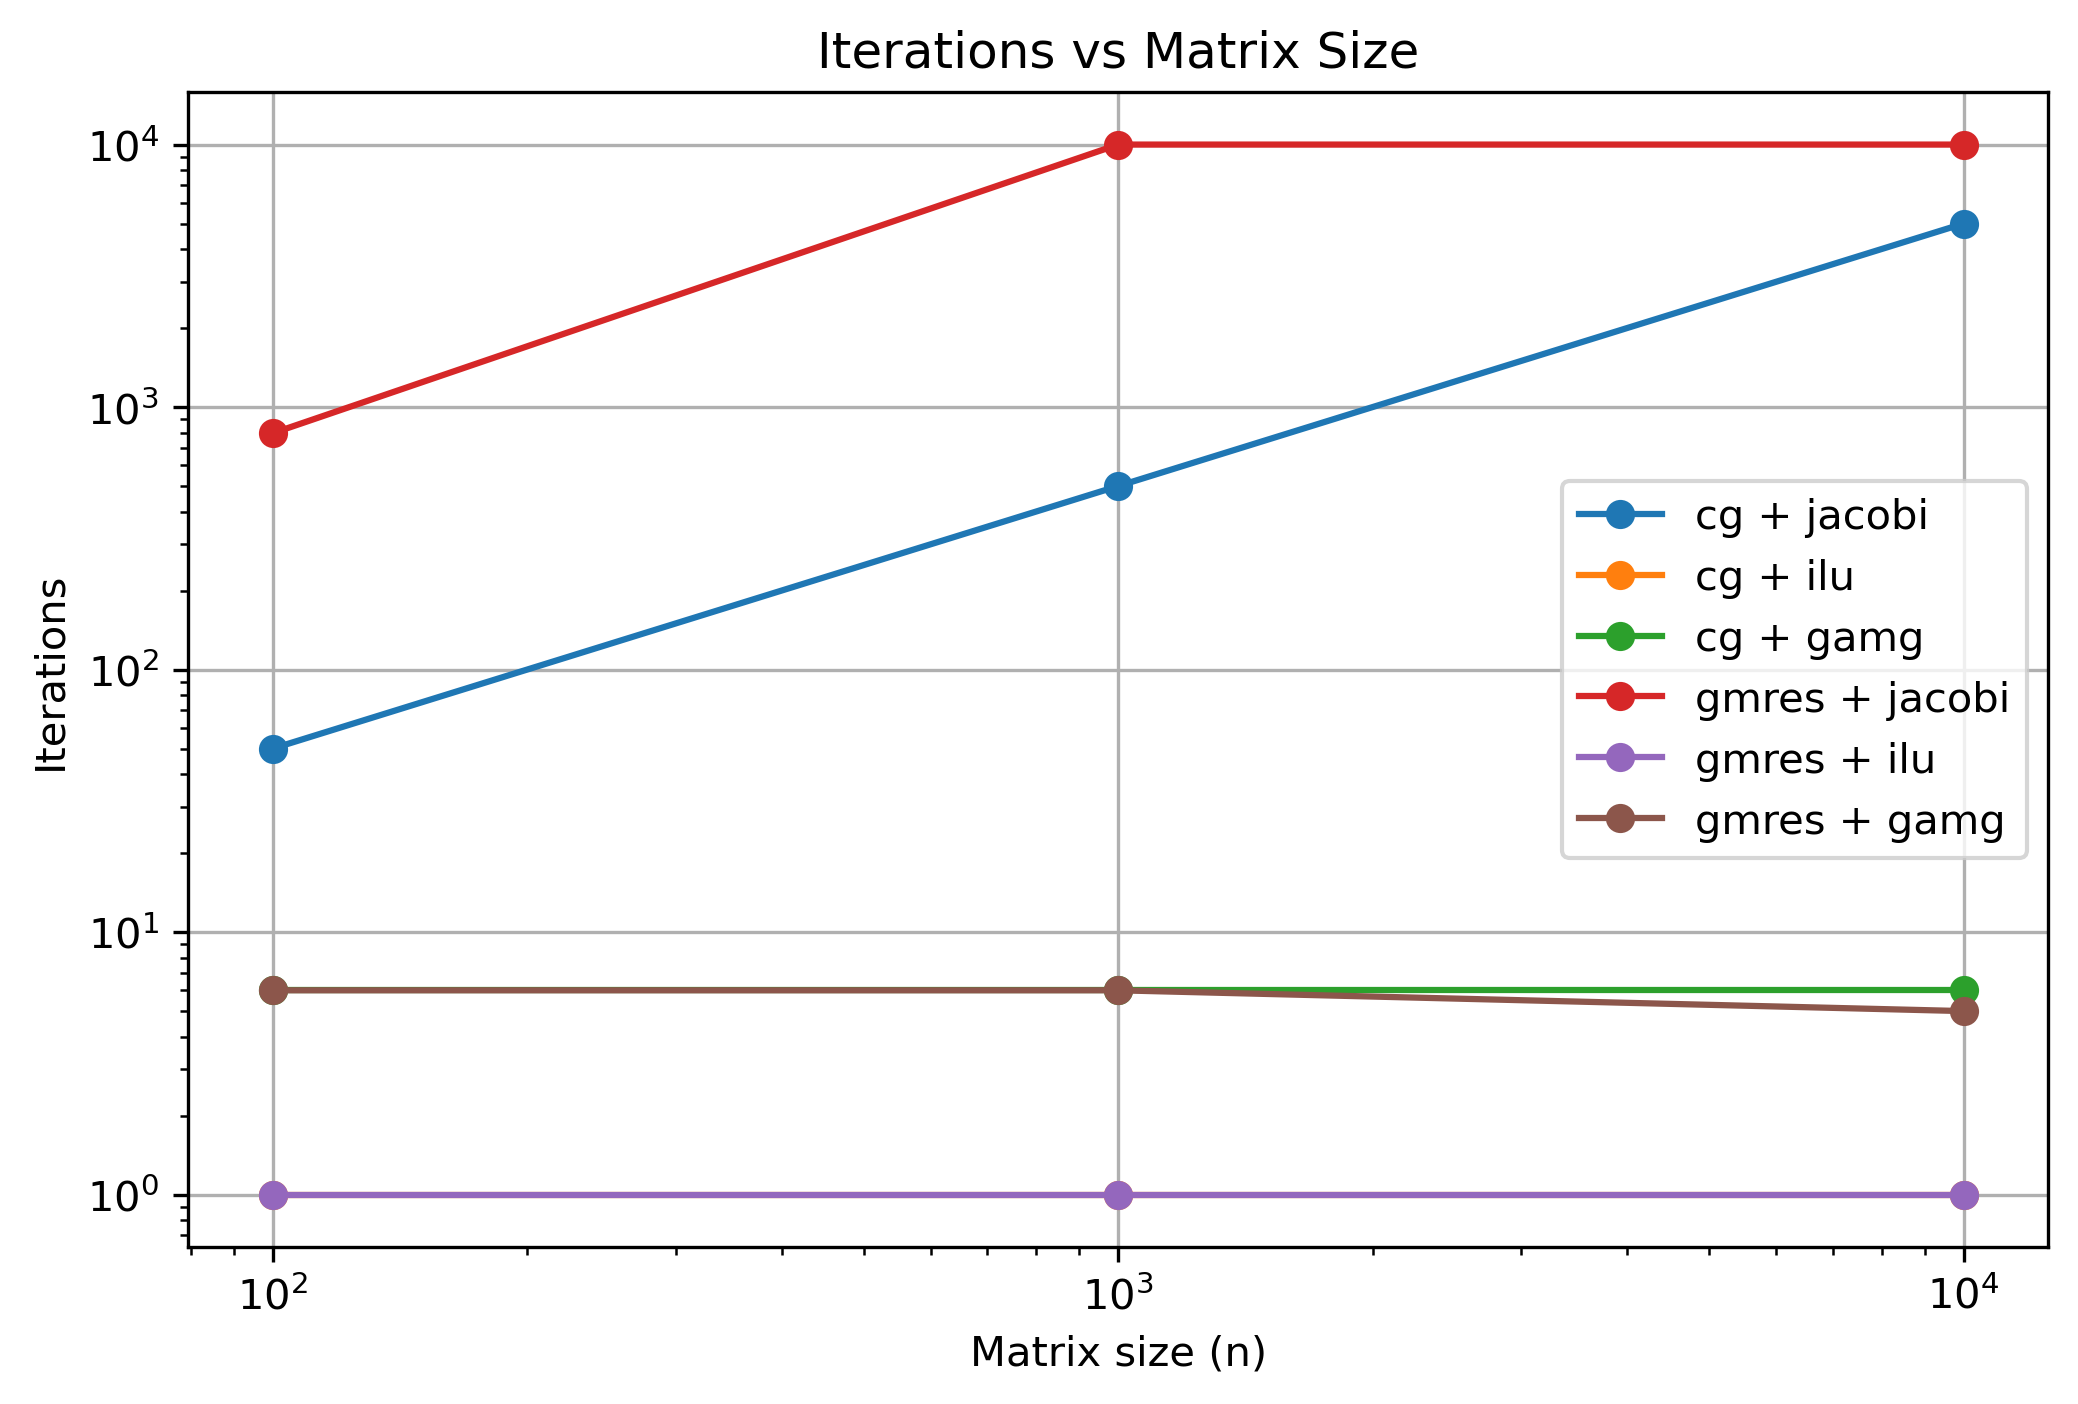
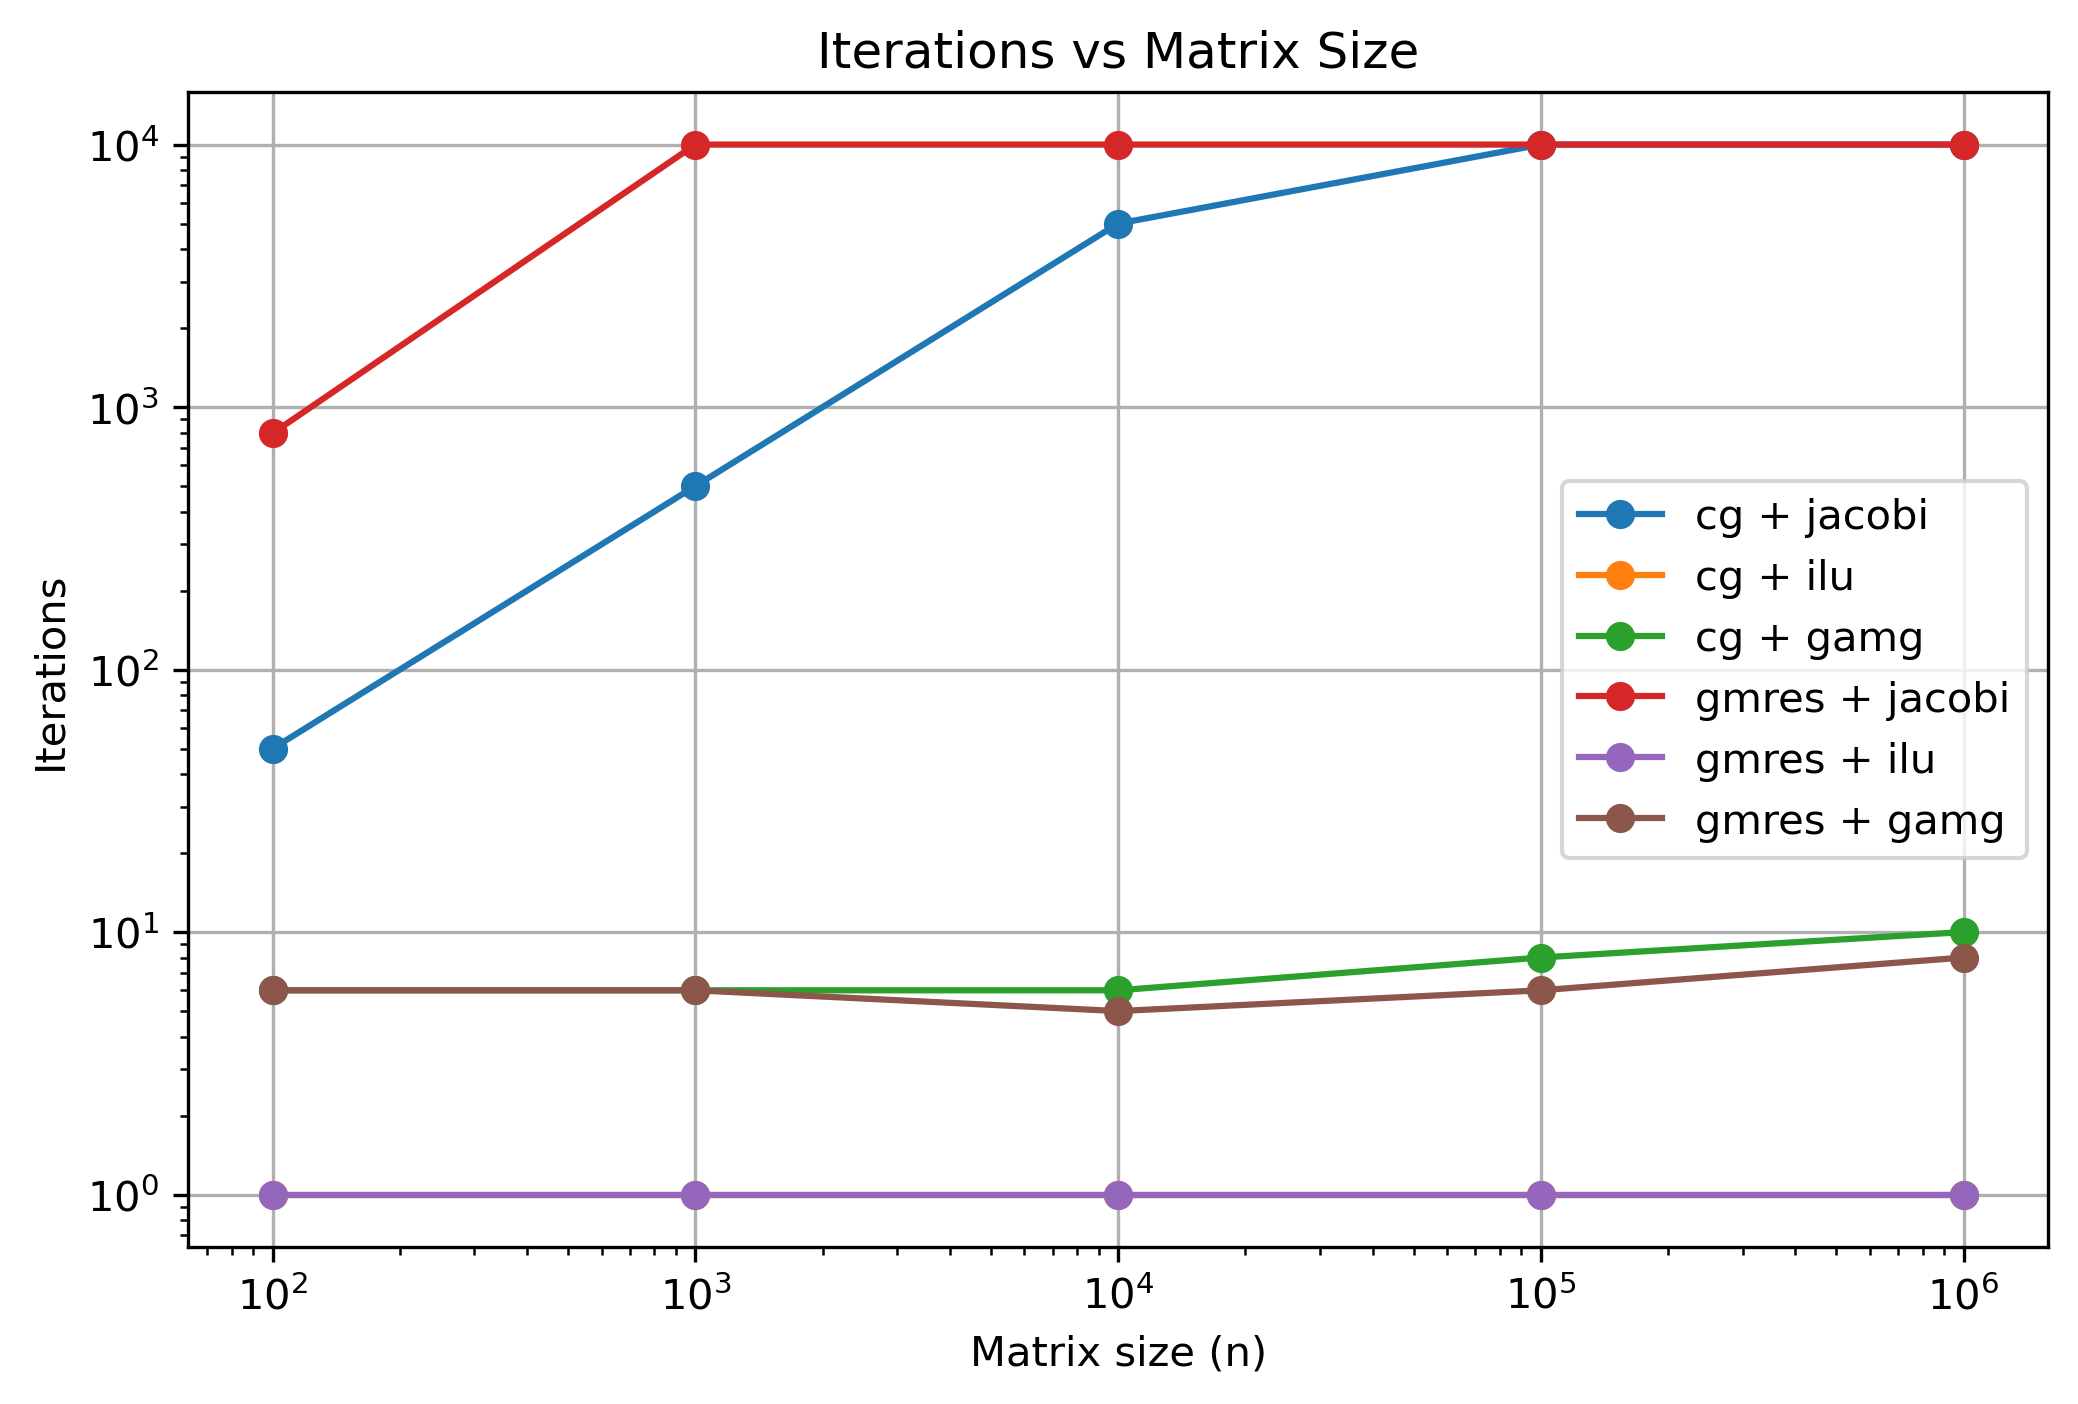
Update benchmark results

diff --git a/scripts/run_benchmarks.py b/scripts/run_benchmarks.py
@@ -18,8 +18,10 @@ PCS = [
 
 SIZES = [
     100,
-    1000,
-    10000,
+    1_000,
+    10_000,
+    100_000,
+    1_000_000
 ]
 
 results = []

diff --git a/include/benchmark_result.hpp b/include/benchmark_result.hpp
@@ -19,6 +19,7 @@ struct BenchmarkResult
     PetscReal residual{};
 
     double solve_time{};
+    double setup_time{};
 
     KSPConvergedReason converged_reason{};
     std::string converged_reason_string;

diff --git a/docs/phase1.md b/docs/phase1.md
@@ -2,11 +2,11 @@
 
 ## Introduction
 
-The objective of this phase was to become familiar with the core PETSc
-abstractions and establish a basic benchmarking workflow.
+The objective of this phase was to become familiar with the core PETSc abstractions and establish a minimal benchmarking
+framework that can be extended throughout the rest of this project.
 
-Rather than immediately solving complex PDEs, the focus was placed on
-understanding PETSc's linear algebra and solver infrastructure:
+Rather than immediately solving finite element problems, the focus was placed on understanding PETSc's linear algebra
+and solver infrastructure:
 
 - Vec
 - Mat
@@ -14,8 +14,13 @@ understanding PETSc's linear algebra and solver infrastructure:
 - PC
 - PETSc Options Database
 
-The goal was to develop a minimal but extensible benchmark framework
-capable of comparing different solver and preconditioner combinations.
+The goal was to build a reusable benchmark workflow capable of:
+
+- Comparing different Krylov methods.
+- Comparing different preconditioners.
+- Studying convergence behaviour.
+- Measuring time-to-solution.
+- Exporting results automatically for post-processing.
 
 ---
 
@@ -23,26 +28,29 @@ capable of comparing different solver and preconditioner combinations.
 
 A small C++ application was developed using PETSc and CMake.
 
-The benchmark constructs a sparse tridiagonal matrix corresponding to
-the one-dimensional Poisson operator
+The benchmark constructs a sparse tridiagonal matrix corresponding to the one-dimensional Poisson operator
 
+```text
 A = tridiag(-1, 2, -1)
+```
 
 with a constant right-hand side vector.
 
-The matrix size can be configured at runtime through PETSc's options
-database.
+The matrix size is configurable through PETSc's options database:
 
-Benchmark results are stored in a `BenchmarkResult` structure and
-exported as JSON for automated post-processing.
+```bash
+./benchmark -n 1000
+```
 
-A Python script was created to:
+Benchmark results are stored in a common `BenchmarkResult` structure and exported as JSON.
 
-1. Execute benchmark campaigns.
-2. Sweep over matrix sizes.
-3. Compare different KSP and PC configurations.
-4. Collect results.
-5. Generate plots automatically.
+A Python automation script was developed to:
+
+- Execute benchmark campaigns.
+- Sweep over multiple matrix sizes.
+- Compare different KSP and PC combinations.
+- Store benchmark results.
+- Generate plots automatically.
 
 ---
 
@@ -64,42 +72,168 @@ A Python script was created to:
 - 100
 - 1,000
 - 10,000
+- 100,000
+- 1,000,000
 
 ### Metrics
 
 - Iteration count
-- Solve time
+- Time-to-solution
 - Convergence status
-- Final residual
+- Residual norm
 
 ---
 
-## Results
+## Benchmark Results
 
 ### Iteration Counts
 
-CG with Jacobi required approximately n/2 iterations for all
-tested matrix sizes.
+![](images/iterations_vs_size.png)
 
-CG with GAMG required approximately six iterations
-independent of matrix size.
+### Solve Times
 
-This demonstrates the mesh-independent convergence
-characteristic of algebraic multigrid methods.
+![](images/solve_time_vs_size.png)
 
-ILU preconditioning reduced the iteration count to a single
-iteration for the tested 1D Poisson problem.
+---
 
-GMRES with Jacobi performed poorly and failed to converge
-within the maximum iteration limit for larger systems.
+## Discussion
 
-![Iterations vs Matrix Size](images/iterations_vs_size.png)
-![Solve Time vs Matrix Size](images/solve_time_vs_size.png)
+### CG + Jacobi
 
-## Key Lessons
+|      Size | Iterations | Status    |
+|----------:|-----------:|-----------|
+|       100 |         50 | Converged |
+|     1,000 |        500 | Converged |
+|    10,000 |      5,000 | Converged |
+|   100,000 |     10,000 | Diverged  |
+| 1,000,000 |     10,000 | Diverged  |
 
-1. Krylov method selection matters.
-2. Preconditioner selection matters even more.
-3. GAMG provides mesh-independent convergence.
-4. Benchmarking should record convergence status in addition to iteration counts.
-5. Iteration count and runtime are related but distinct metrics.
+Observations:
+
+- Iteration count grows approximately linearly with system size.
+- Convergence deteriorates as the matrix becomes larger.
+- The solver eventually reaches the maximum iteration limit.
+
+This demonstrates that Jacobi is not a scalable preconditioner for this problem.
+
+---
+
+### CG + ILU
+
+|      Size | Iterations |
+|----------:|-----------:|
+|       100 |          1 |
+|     1,000 |          1 |
+|    10,000 |          1 |
+|   100,000 |          1 |
+| 1,000,000 |          1 |
+
+Observations:
+
+- ILU reduces the iteration count to a single iteration for all tested matrix sizes.
+- For this simple tridiagonal problem, ILU behaves almost like a direct solver.
+- The solve time remains extremely small even at one million unknowns.
+
+This result should be interpreted carefully because the one-dimensional Poisson operator is a particularly favourable
+case for ILU.
+
+---
+
+### CG + GAMG
+
+|      Size | Iterations |
+|----------:|-----------:|
+|       100 |          6 |
+|     1,000 |          6 |
+|    10,000 |          6 |
+|   100,000 |          8 |
+| 1,000,000 |         10 |
+
+Observations:
+
+- The iteration count remains nearly constant as the problem size increases.
+- Only a small increase is observed between one hundred and one million unknowns.
+
+This is the characteristic behaviour expected from algebraic multigrid methods and demonstrates mesh-independent
+convergence.
+
+---
+
+### GMRES + Jacobi
+
+|      Size | Iterations | Status    |
+|----------:|-----------:|-----------|
+|       100 |        795 | Converged |
+|     1,000 |     10,000 | Diverged  |
+|    10,000 |     10,000 | Diverged  |
+|   100,000 |     10,000 | Diverged  |
+| 1,000,000 |     10,000 | Diverged  |
+
+Observations:
+
+- GMRES performs considerably worse than CG on this symmetric positive definite problem.
+- The method fails to converge for all but the smallest test case.
+
+This demonstrates that a more general Krylov method is not necessarily a better choice.
+
+---
+
+### GMRES + ILU
+
+Observations:
+
+- Behaviour is nearly identical to CG + ILU.
+- The quality of the preconditioner dominates solver performance.
+
+---
+
+### GMRES + GAMG
+
+|      Size | Iterations |
+|----------:|-----------:|
+|       100 |          6 |
+|     1,000 |          6 |
+|    10,000 |          5 |
+|   100,000 |          6 |
+| 1,000,000 |          8 |
+
+Observations:
+
+- Iteration counts remain nearly constant.
+- Similar behaviour is observed for CG + GAMG.
+
+Again, the preconditioner appears to have a much larger impact than the Krylov method.
+
+---
+
+## Key Findings
+
+### 1. Preconditioners matter more than Krylov methods
+
+The largest performance gains were obtained by changing the preconditioner rather than the Krylov solver.
+
+---
+
+### 2. Jacobi does not scale
+
+Jacobi preconditioning becomes increasingly ineffective as the system size grows and eventually fails to converge within
+the iteration limit.
+
+---
+
+### 3. GAMG exhibits mesh-independent convergence
+
+The number of iterations remained nearly constant from 100 up to 1,000,000 unknowns.
+
+---
+
+### 4. GMRES is not automatically better than CG
+
+For this symmetric positive definite problem, CG significantly outperformed GMRES when both methods used the same
+preconditioner.
+
+---
+
+### 5. Automated benchmarking is practical
+
+Combining PETSc, JSON output and Python scripting provides a reproducible workflow for large benchmark campaigns.